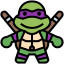
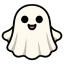
Code Update and Asset Replacement
Removed brick background and replaced it with night sky background that i custom made, replaced turtle character with sheet ghost that was generated by Copilot, added death scene to main python file and also added commentary within the code to describe changes made.

diff --git a/spooky_tower.py b/spooky_tower.py
@@ -2,7 +2,7 @@ import sys
 import pygame
 import random
 
-GAME_FPS = 150
+GAME_FPS = 60 # Changed games fps from 150 to 60 - Scarlet
 WIDTH, HEIGHT = 1000, 700
 JUMPING_HEIGHT = 20
 MAX_ACCELERATION = 13
@@ -14,10 +14,10 @@ GAMEPLAY_SOUND_LENGTH = 31  # 31 seconds.
 SHELVES_COUNT = 500  # Number of shelves in the game.
 
 # Images:
-BODY_IMAGE = pygame.image.load("Assets/body.png")
-BACKGROUND = pygame.image.load("Assets/background.png")
-BRICK_IMAGE = pygame.image.load("Assets/brick_block.png")
-SHELF_BRICK_IMAGE = pygame.image.load("Assets/shelf_brick.png")
+BODY_IMAGE = pygame.image.load("Assets/body.png") # this is the character image which we are changing from turtle to ghost - Scarlet
+BACKGROUND = pygame.image.load("Assets/background.png") # this was brick, changed to nightsky - Scarlet
+BRICK_IMAGE = pygame.image.load("Assets/brick_block.png") # this is the pillar image - Scarlet
+SHELF_BRICK_IMAGE = pygame.image.load("Assets/shelf_brick.png") # this is the platform we jump onto - Scarlet
 
 # Walls settings:
 WALLS_Y = -128
@@ -27,7 +27,7 @@ RIGHT_WALL_BOUND = WIDTH - WALL_WIDTH
 LEFT_WALL_BOUND = WALL_WIDTH
 
 # Background settings:
-BACKGROUND_WIDTH = WIDTH - 2 * WALL_WIDTH  # 2*64 is for two walls on the sides.
+BACKGROUND_WIDTH = WIDTH - 2 * WALL_WIDTH  # removed irrelevant comment - Scarlet
 BACKGROUND_ROLLING_SPEED = 1
 BACKGROUND_Y = HEIGHT - BACKGROUND.get_height()
 background_y = BACKGROUND_Y
@@ -67,6 +67,9 @@ class Body:
         self.jumpable = self.vel_y <= 0  # If body is hitting a level, then it can jump only if the body is going down.
 
 
+
+# Track the highest shelf/platform reached
+highest_shelf_reached = 0 # added a variable to track the highest shelf reached - Scarlet
 body = Body()
 
 total_shelves_list = []
@@ -138,14 +141,16 @@ def DrawWindow():  # Basically, drawing the screen.
 
 
 def OnShelf():  # Checking whether the body is on a shelf, returning True/False.
-    global jumping, standing, falling, BACKGROUND_ROLLING_SPEED, current_standing_shelf
+    global jumping, standing, falling, BACKGROUND_ROLLING_SPEED, current_standing_shelf, highest_shelf_reached # Changed the global variables to include the new ones - Scarlet
     if body.vel_y <= 0:  # Means the body isn't moving upwards, so now it's landing.
         for shelf in total_shelves_list:
-            if body.y <= shelf.rect.y - body.size <= body.y - body.vel_y:  # If y values collide.shelf.rect.y - body.size >= body.y and shelf.rect.y - body.size <= body.y - body.vel_y
-                if body.x + body.size * 2 / 3 >= shelf.rect.x and body.x + body.size * 1 / 3 <= shelf.rect.x + shelf.width:  # if x values collide.
+            if body.y <= shelf.rect.y - body.size <= body.y - body.vel_y:
+                if body.x + body.size * 2 / 3 >= shelf.rect.x and body.x + body.size * 1 / 3 <= shelf.rect.x + shelf.width: # Checking if the body is on the shelf - Scarlet
                     body.y = shelf.rect.y - body.size
+                    if shelf.number > highest_shelf_reached:
+                        highest_shelf_reached = shelf.number # added a variable to track the highest shelf reached - Scarlet
                     if current_standing_shelf != shelf.number and shelf.number % 50 == 0 and shelf.number != 0:
-                        BACKGROUND_ROLLING_SPEED += 1  # Rolling speed increases every 50 shelves.
+                        BACKGROUND_ROLLING_SPEED += 1 # Increased the speed of the background rolling down when reaching a new shelf - Scarlet
                         current_standing_shelf = shelf.number
                     if shelf.number % 100 == 0 and shelf.number != 0:
                         HOORAY_SOUND.play()
@@ -169,9 +174,67 @@ def ScreenRollDown():  # Increasing the y values of all elements.
         WALLS_Y = -108
 
 
-def GameOver():  # Quitting the game.
-    pygame.quit()
-    sys.exit(1)
+
+# End scene function
+def show_end_scene():
+    global highest_shelf_reached
+    font_big = pygame.font.SysFont("Arial", 60)
+    font_small = pygame.font.SysFont("Arial", 36)
+    selected = 0
+    options = ["Try again", "Exit"]
+    clock = pygame.time.Clock()
+    while True:
+        # Draw the same background as the game
+        WIN.blit(BACKGROUND, (32, BACKGROUND_Y))
+        text1 = font_big.render("You died!", True, WHITE)
+        WIN.blit(text1, (WIDTH // 2 - text1.get_width() // 2, HEIGHT // 3))
+        msg = f"Highest level reached: {highest_shelf_reached}"
+        text2 = font_small.render(msg, True, WHITE)
+        WIN.blit(text2, (WIDTH // 2 - text2.get_width() // 2, HEIGHT // 3 + 80))
+        for i, opt in enumerate(options):
+            color = (255, 255, 0) if i == selected else WHITE
+            opt_text = font_small.render(opt, True, color)
+            WIN.blit(opt_text, (WIDTH // 2 - opt_text.get_width() // 2, HEIGHT // 2 + 60 + i * 60))
+        pygame.display.update()
+        for event in pygame.event.get():
+            if event.type == pygame.QUIT:
+                pygame.quit()
+                sys.exit(0)
+            if event.type == pygame.KEYDOWN:
+                if event.key in [pygame.K_UP, pygame.K_w]:
+                    selected = (selected - 1) % len(options)
+                if event.key in [pygame.K_DOWN, pygame.K_s]:
+                    selected = (selected + 1) % len(options)
+                if event.key in [pygame.K_RETURN, pygame.K_SPACE]:
+                    if selected == 0:
+                        restart_game()
+                        return
+                    elif selected == 1:
+                        pygame.quit()
+                        sys.exit(0)
+        clock.tick(30)
+
+def restart_game():
+    global body, total_shelves_list, highest_shelf_reached, current_standing_shelf, BACKGROUND_ROLLING_SPEED, background_y, WALLS_Y, rolling_down
+    body = Body()
+    total_shelves_list.clear()
+    for num in range(0, SHELVES_COUNT + 1):
+        new_shelf = Shelf(num)
+        if num % 50 == 0:
+            new_shelf.width = BACKGROUND_WIDTH
+            new_shelf.rect.width = BACKGROUND_WIDTH
+            new_shelf.x = WALL_WIDTH
+            new_shelf.rect.x = WALL_WIDTH
+        total_shelves_list.append(new_shelf)
+    highest_shelf_reached = 0
+    current_standing_shelf = None
+    BACKGROUND_ROLLING_SPEED = 1
+    background_y = BACKGROUND_Y
+    WALLS_Y = -128
+    rolling_down = False
+
+def GameOver():
+    show_end_scene()
 
 
 def CheckIfTouchingFloor():  # Checking if the body is still on the main ground.
